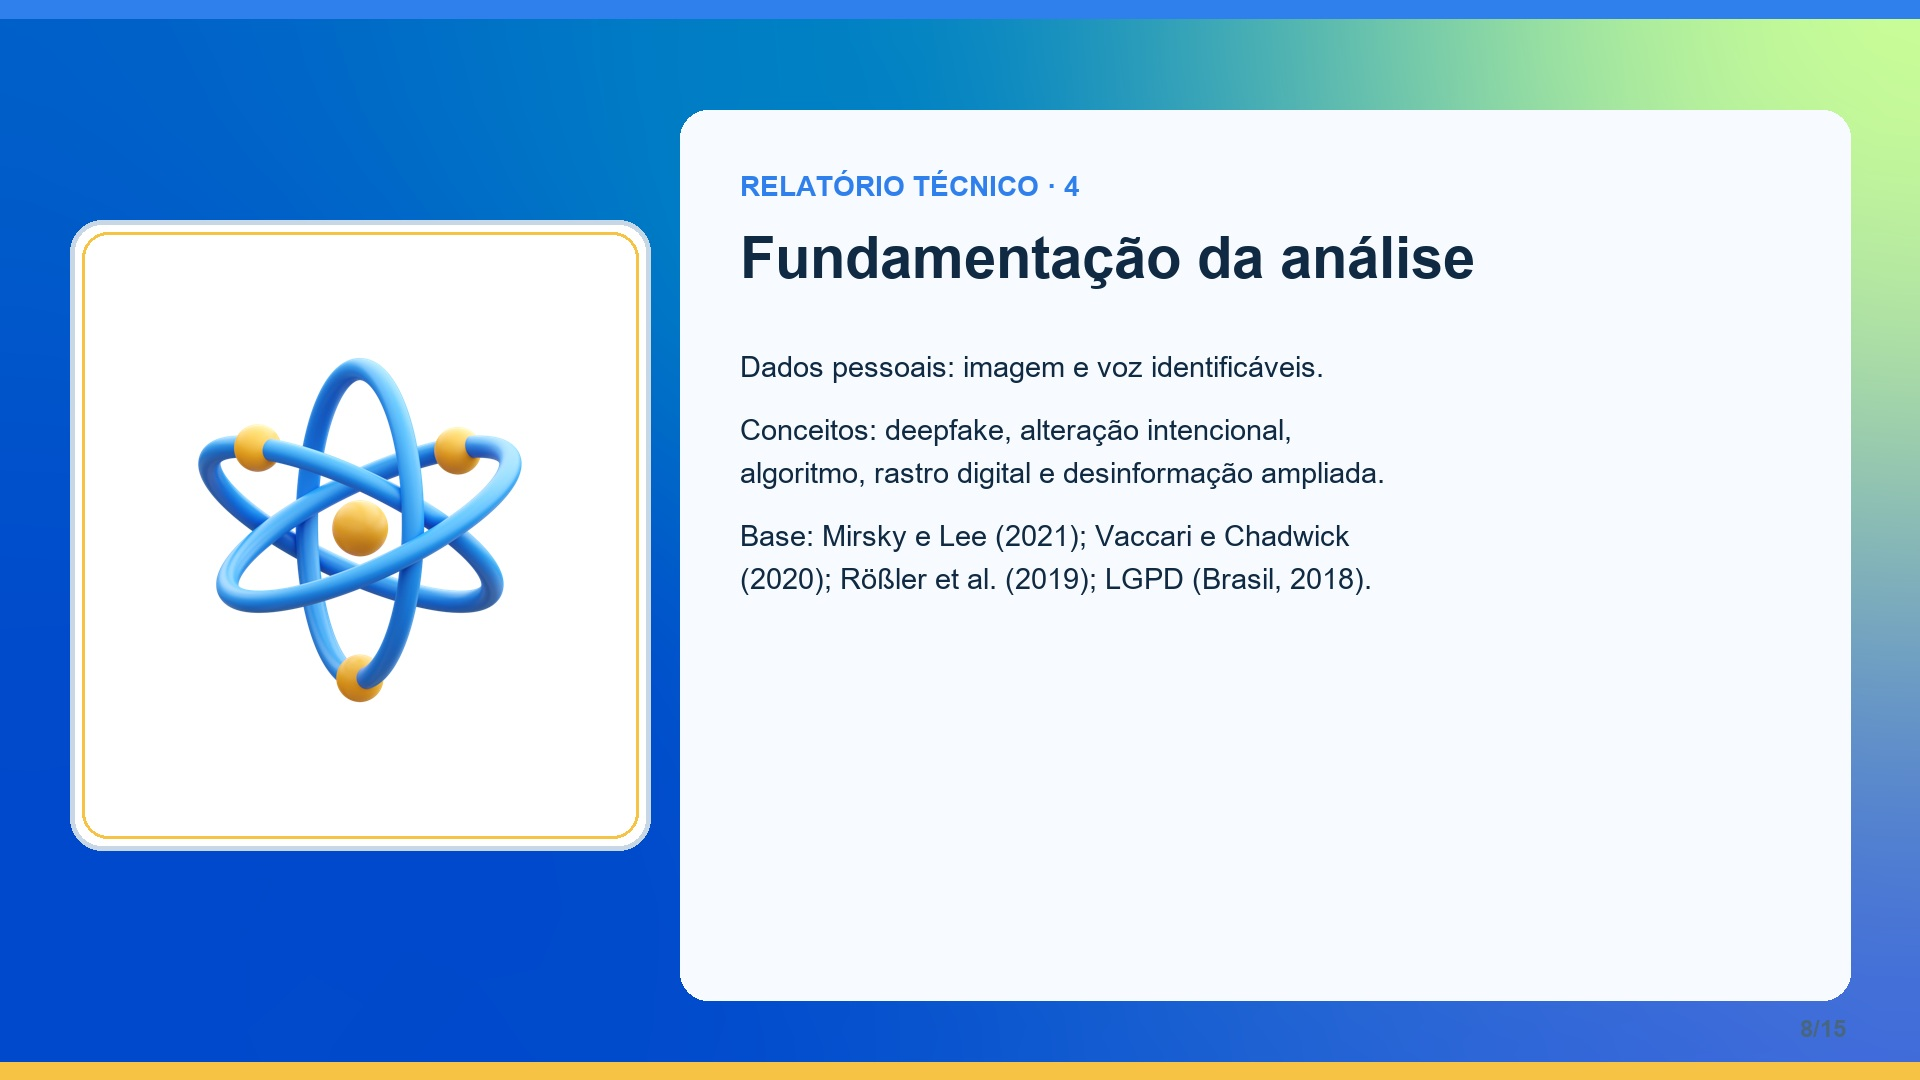
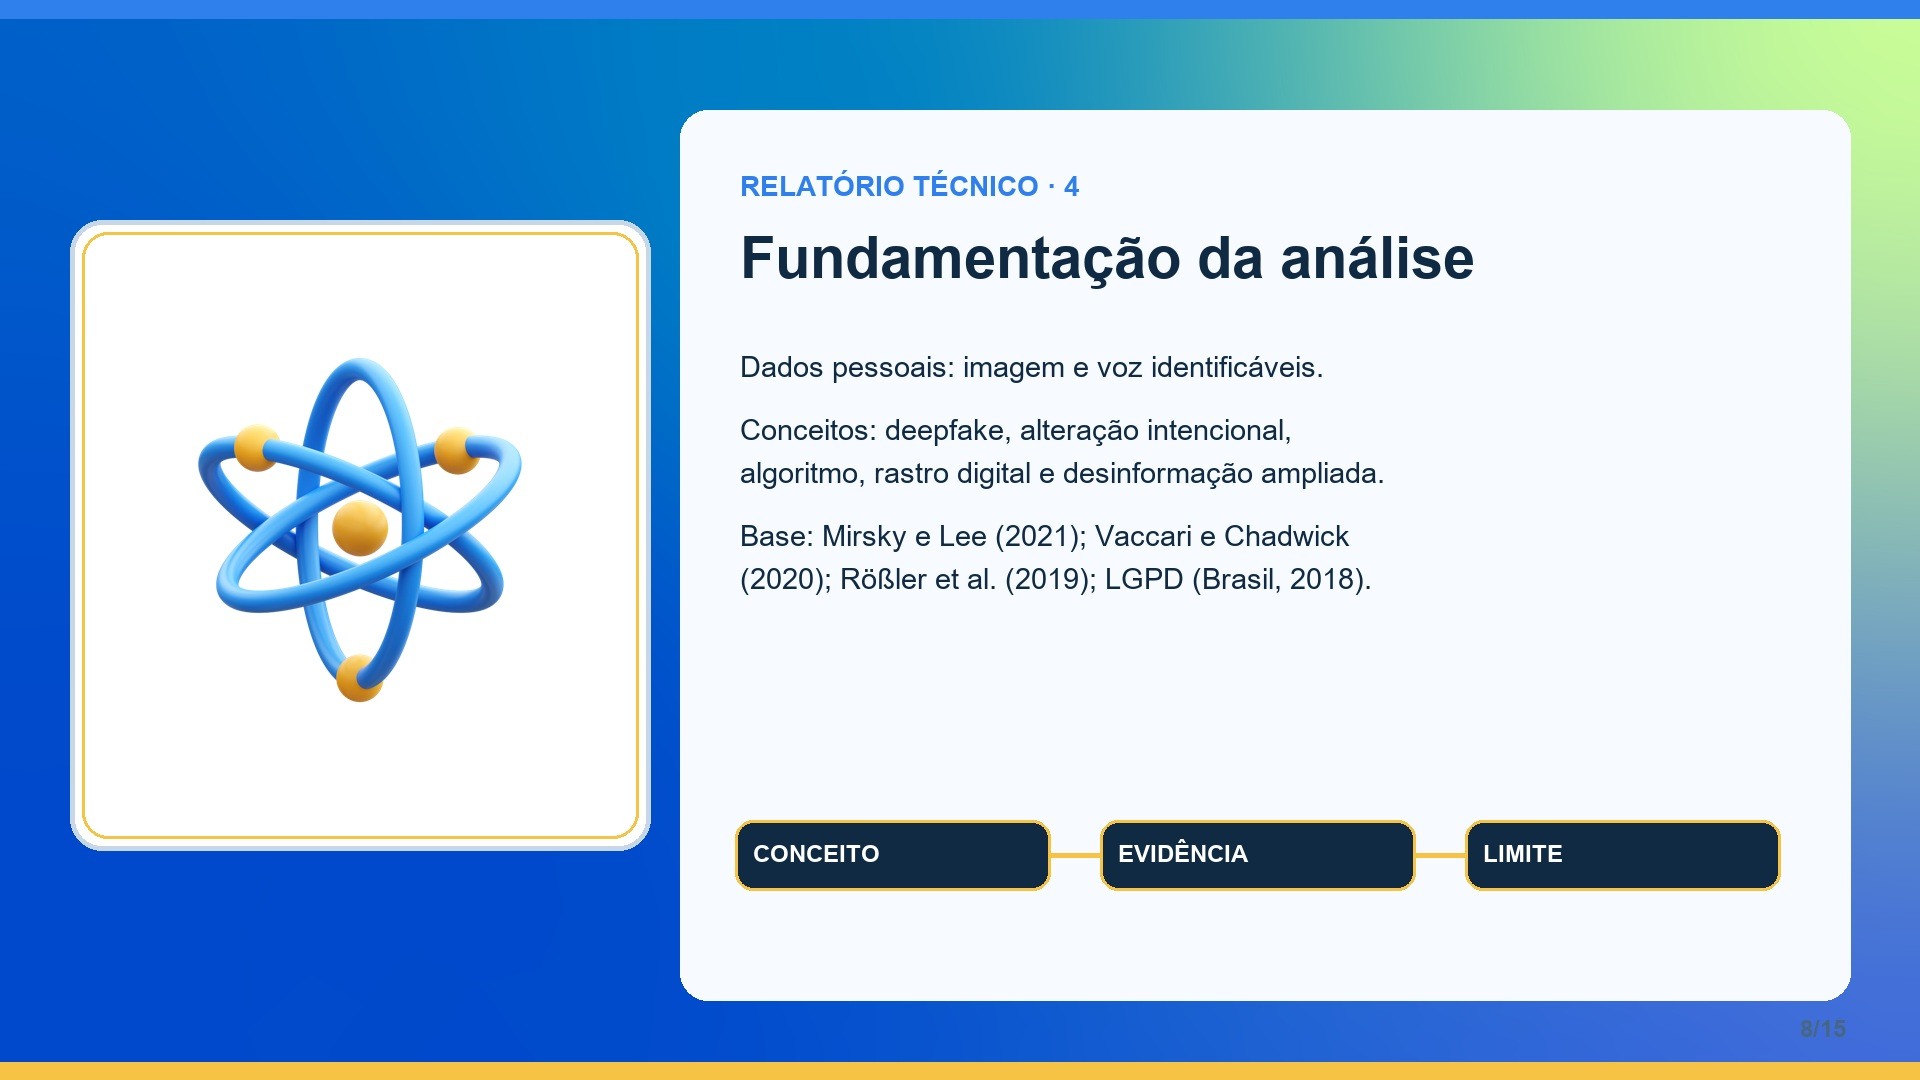
feat: inserir diagramas factuais nos slides

Changed region(s): [[0.375, 0.7333, 0.9375, 0.825]]

diff --git a/scripts/generate_n3_jpgs.py b/scripts/generate_n3_jpgs.py
@@ -19,11 +19,23 @@ S=[
 ('CAMPANHA · 4','Peça visual da campanha',['PARE · CONFIRME · DENUNCIE','1. Pause antes de clicar. 2. Confirme no canal oficial. 3. Não forneça dados. 4. Denuncie e preserve o link.','Peça de conscientização; não é anúncio real.'],'template-icones-ilustracoes-040.png'),
 ('CONCLUSÃO','Aprendizados principais',['Fato, evidência, inferência e hipótese precisam ser separados.','Imagem e voz podem ser reutilizadas para fabricar autoridade.','A resposta mais segura é confirmação independente antes de compartilhar ou pagar.'],'template-capa-002.png'),
 ('REFERÊNCIAS','Fontes utilizadas',['CNN BRASIL (2024). Marcos Palmeira: rosto do ator é usado com IA em golpe no Instagram.','MIRSKY; LEE (2021). The creation and detection of deepfakes. ACM Computing Surveys.','VACCARI; CHADWICK (2020). Deepfakes and disinformation. Social Media + Society.','BRASIL (2018). Lei Geral de Proteção de Dados. ANPD (2023). Guia orientativo. NIST (2023). AI Risk Management Framework.'],'template-icones-ilustracoes-107.png')]
+def diagram(d, i):
+    # Diagramas autorais: visualizam relações documentadas sem reproduzir mídia jornalística protegida.
+    groups={2:['IMAGEM/VOZ','OFERTA','USUÁRIO'],3:['VÍDEO PRÉVIO','VOZ SINTÉTICA','ANÚNCIO'],5:['RELATO','CIRCULAÇÃO','IMPACTO'],6:['IA','IDENTIDADE','INCENTIVO'],7:['CONTEÚDO','CONFIANÇA','DANO'],8:['CONCEITO','EVIDÊNCIA','LIMITE'],9:['PAUSAR','CONFIRMAR','DENUNCIAR']}
+    labels=groups.get(i)
+    if not labels:return
+    for n,label in enumerate(labels):
+        x=735+n*365; y=820
+        d.rounded_rectangle((x,y,x+315,y+70),radius=18,fill=(16,42,67),outline=(246,195,68),width=3)
+        d.text((x+18,y+20),label,font=font(24,1),fill=(255,255,255))
+        if n<2:d.line((x+315,y+35,x+365,y+35),fill=(246,195,68),width=5)
+
 for i,(k,t,ps,img) in enumerate(S,1):
  bg=Image.open(A/'template-capa-002.png').convert('RGB').resize((1920,1080))
  im=bg.copy(); d=ImageDraw.Draw(im); d.rectangle((0,0,1920,18),fill=(47,128,237)); d.rectangle((0,1062,1920,1080),fill=(246,195,68)); d.rounded_rectangle((680,110,1850,1000),radius=28,fill=(247,251,255,238)); d.rounded_rectangle((70,220,650,850),radius=32,fill=(255,255,255),outline=(199,215,229),width=5); d.rounded_rectangle((82,232,638,838),radius=26,outline=(246,195,68),width=3); a=Image.open(A/img).convert('RGBA'); a.thumbnail((500,500)); im.paste(a,(110,280),a); d.text((740,170),k,font=font(28,1),fill=(47,128,237)); d.text((740,225),t,font=font(58,1),fill=(16,42,67)); y=350
  for p in ps:
   for line in textwrap.wrap(p,52):d.text((740,y),line,font=font(29),fill=(16,42,67));y+=43
   y+=20
+ diagram(d,i)
  d.text((1800,1015),f'{i}/15',font=font(24,1),fill=(72,102,129));im.save(O/f'slide-{i:02d}.jpg',quality=94,optimize=True)
 

diff --git a/docs/fichamento-caso.md b/docs/fichamento-caso.md
@@ -6,6 +6,8 @@
 
 **Ideia central:** a reportagem registra a alegação pública do ator de que um perfil usou vídeo prévio, imagem e voz reproduzida por IA para criar publicidade não autorizada de ferramentas. **Uso no projeto:** evidência jornalística de existência do caso e de não autorização; não prova, sozinha, autoria, alcance ou perícia do arquivo.
 
+**Evidência visual:** a matéria exibe fotografia creditada a Fábio Rocha/TV Globo e informa direitos reservados. Por isso, a apresentação mantém a referência e o crédito, mas não redistribui a fotografia no repositório sem autorização específica. Os diagramas dos slides são reconstruções autorais baseadas apenas nos fatos textualmente verificáveis.
+
 ## Referências científicas e técnicas
 
 1. KORSUNSKY, A. et al. Deepfakes and deception. *ACM Computing Surveys*, 2021.

diff --git a/docs/ux-ui-assets-plan.md b/docs/ux-ui-assets-plan.md
@@ -37,3 +37,5 @@ O PPTX original contém 117 arquivos de mídia incorporados. Eles foram extraíd
 ## Validação
 
 A seleção deve ser revisada visualmente em 1920×1080, 1366×768 e viewport móvel. O contraste deve ser conferido entre texto, cartão e fundo; caso um ícone azul perca distinção, ele deve permanecer dentro do cartão branco e receber contorno amarelo, sem alterar a informação original.
+
+Fotografias jornalísticas permanecem como referência externa quando a licença não está documentada. O caso CNN Brasil contém fotografia creditada a Fábio Rocha/TV Globo e direitos reservados; portanto, foram priorizados diagramas autorais e link verificável à fonte.
